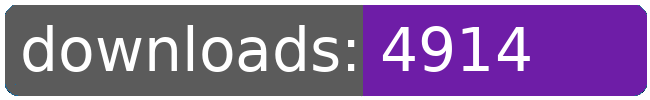
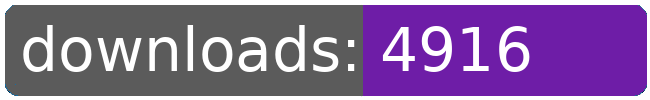
dl log written

Changed region(s): [[0.7692, 0.24, 0.8308, 0.72]]

diff --git a/README.md b/README.md
@@ -21,8 +21,8 @@
 		<td>4799</td>
 		<td>4837</td>
 		<td>4875</td>
-		<td>4914</td>
-		<td>+ 39</td>
+		<td>4916</td>
+		<td>+ 41</td>
 	</tr>
 	<tr>
 		<td>aberrant.kahet.outfitter</td>
@@ -274,8 +274,8 @@
 		<td></td>
 		<td></td>
 		<td></td>
-		<td>72757</td>
-		<td>318</td>
+		<td>72759</td>
+		<td>320</td>
 	</tr>
 </table>
 </sub></sup>
@@ -300,8 +300,8 @@
 		<td>4799</td>
 		<td>4837</td>
 		<td>4875</td>
-		<td>4914</td>
-		<td>+ 39</td>
+		<td>4916</td>
+		<td>+ 41</td>
 	</tr>
 	<tr>
 		<td>aberrant.kahet.outfitter</td>
@@ -553,8 +553,8 @@
 		<td></td>
 		<td></td>
 		<td></td>
-		<td>72757</td>
-		<td>318</td>
+		<td>72759</td>
+		<td>320</td>
 	</tr>
 </table>
 </sub></sup>
